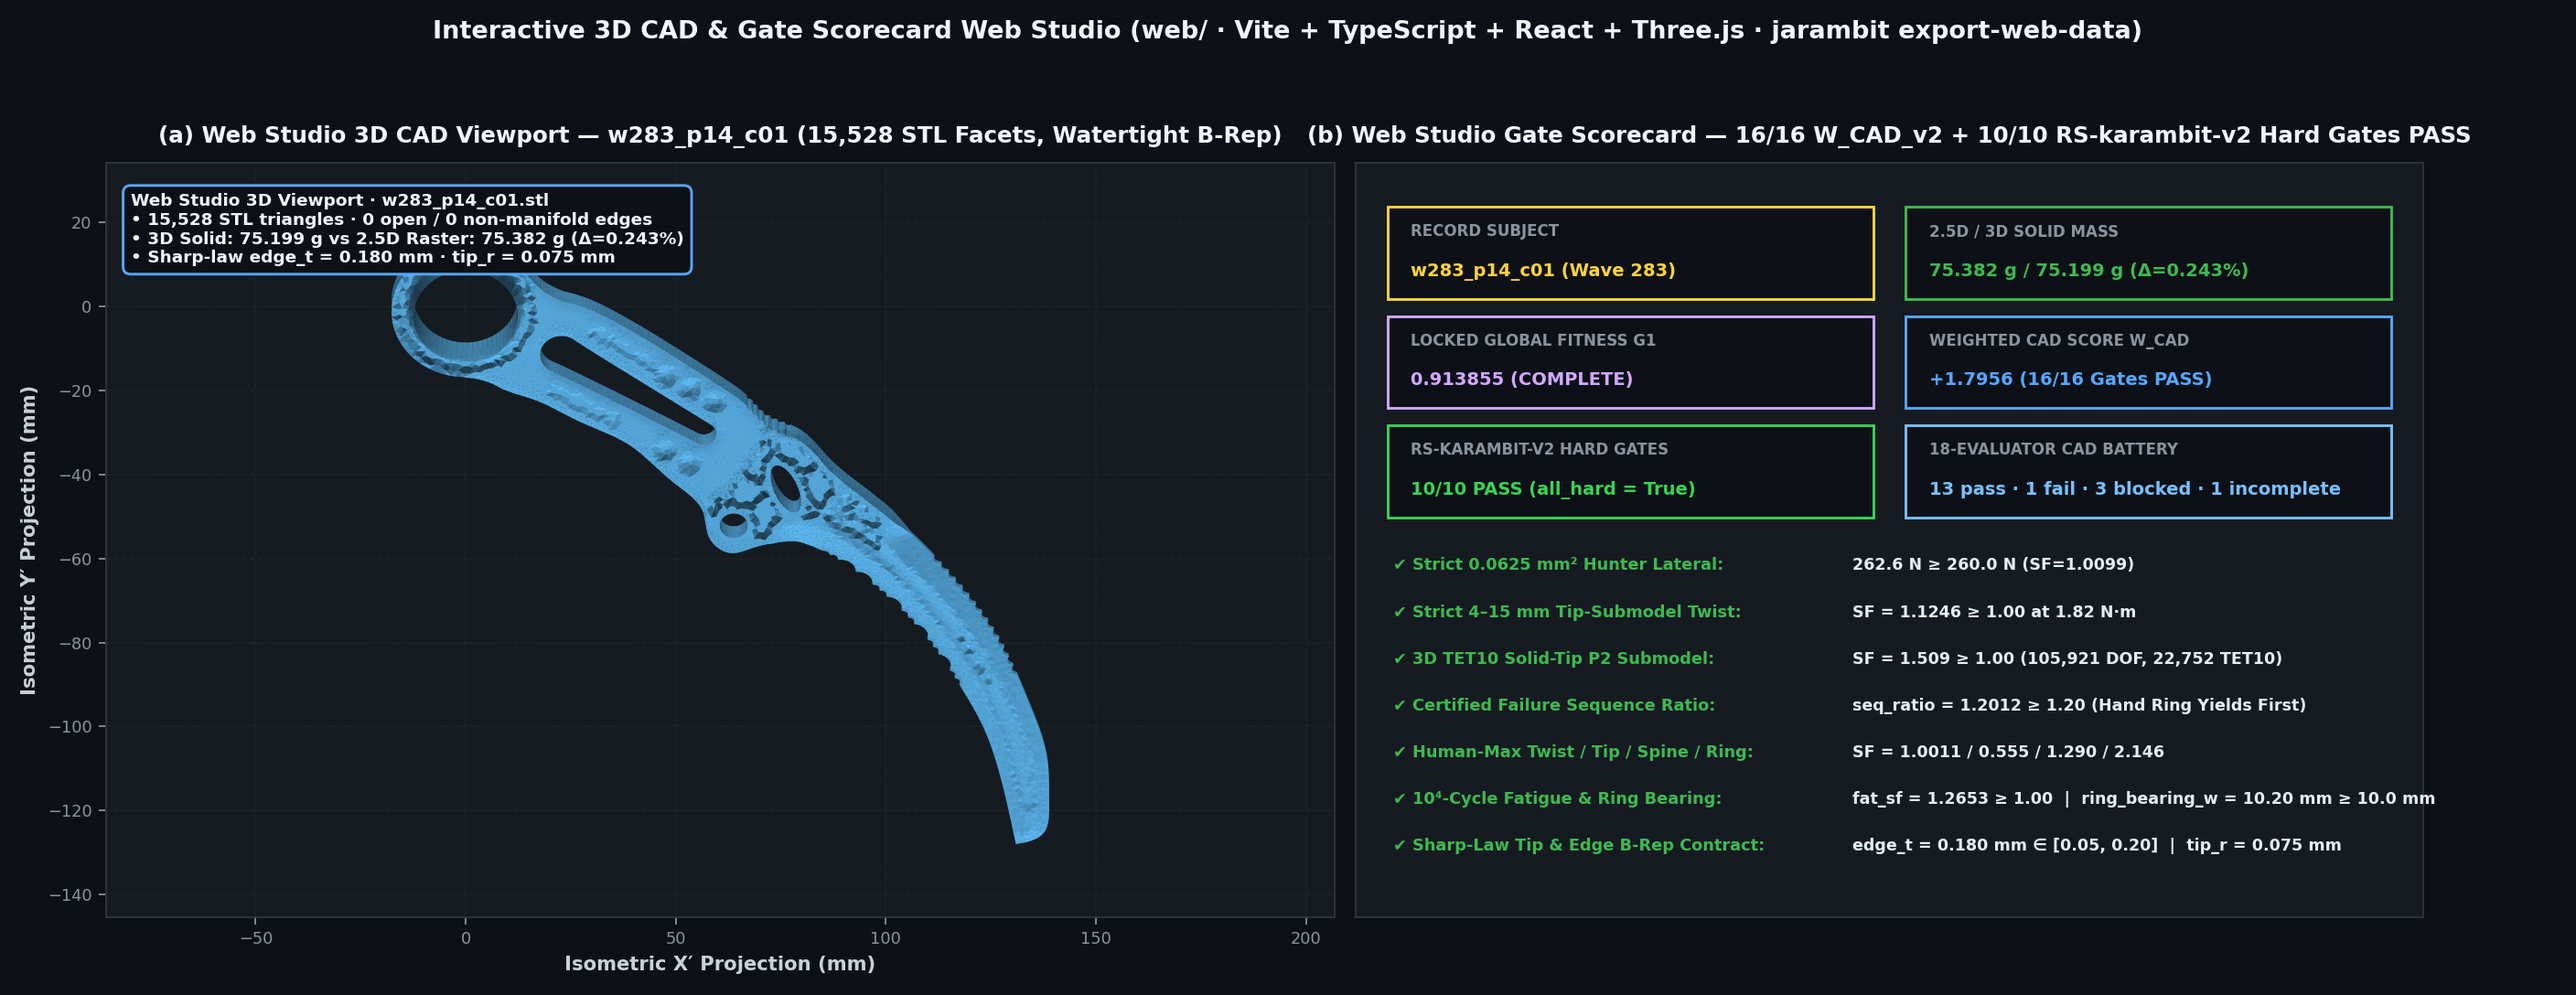
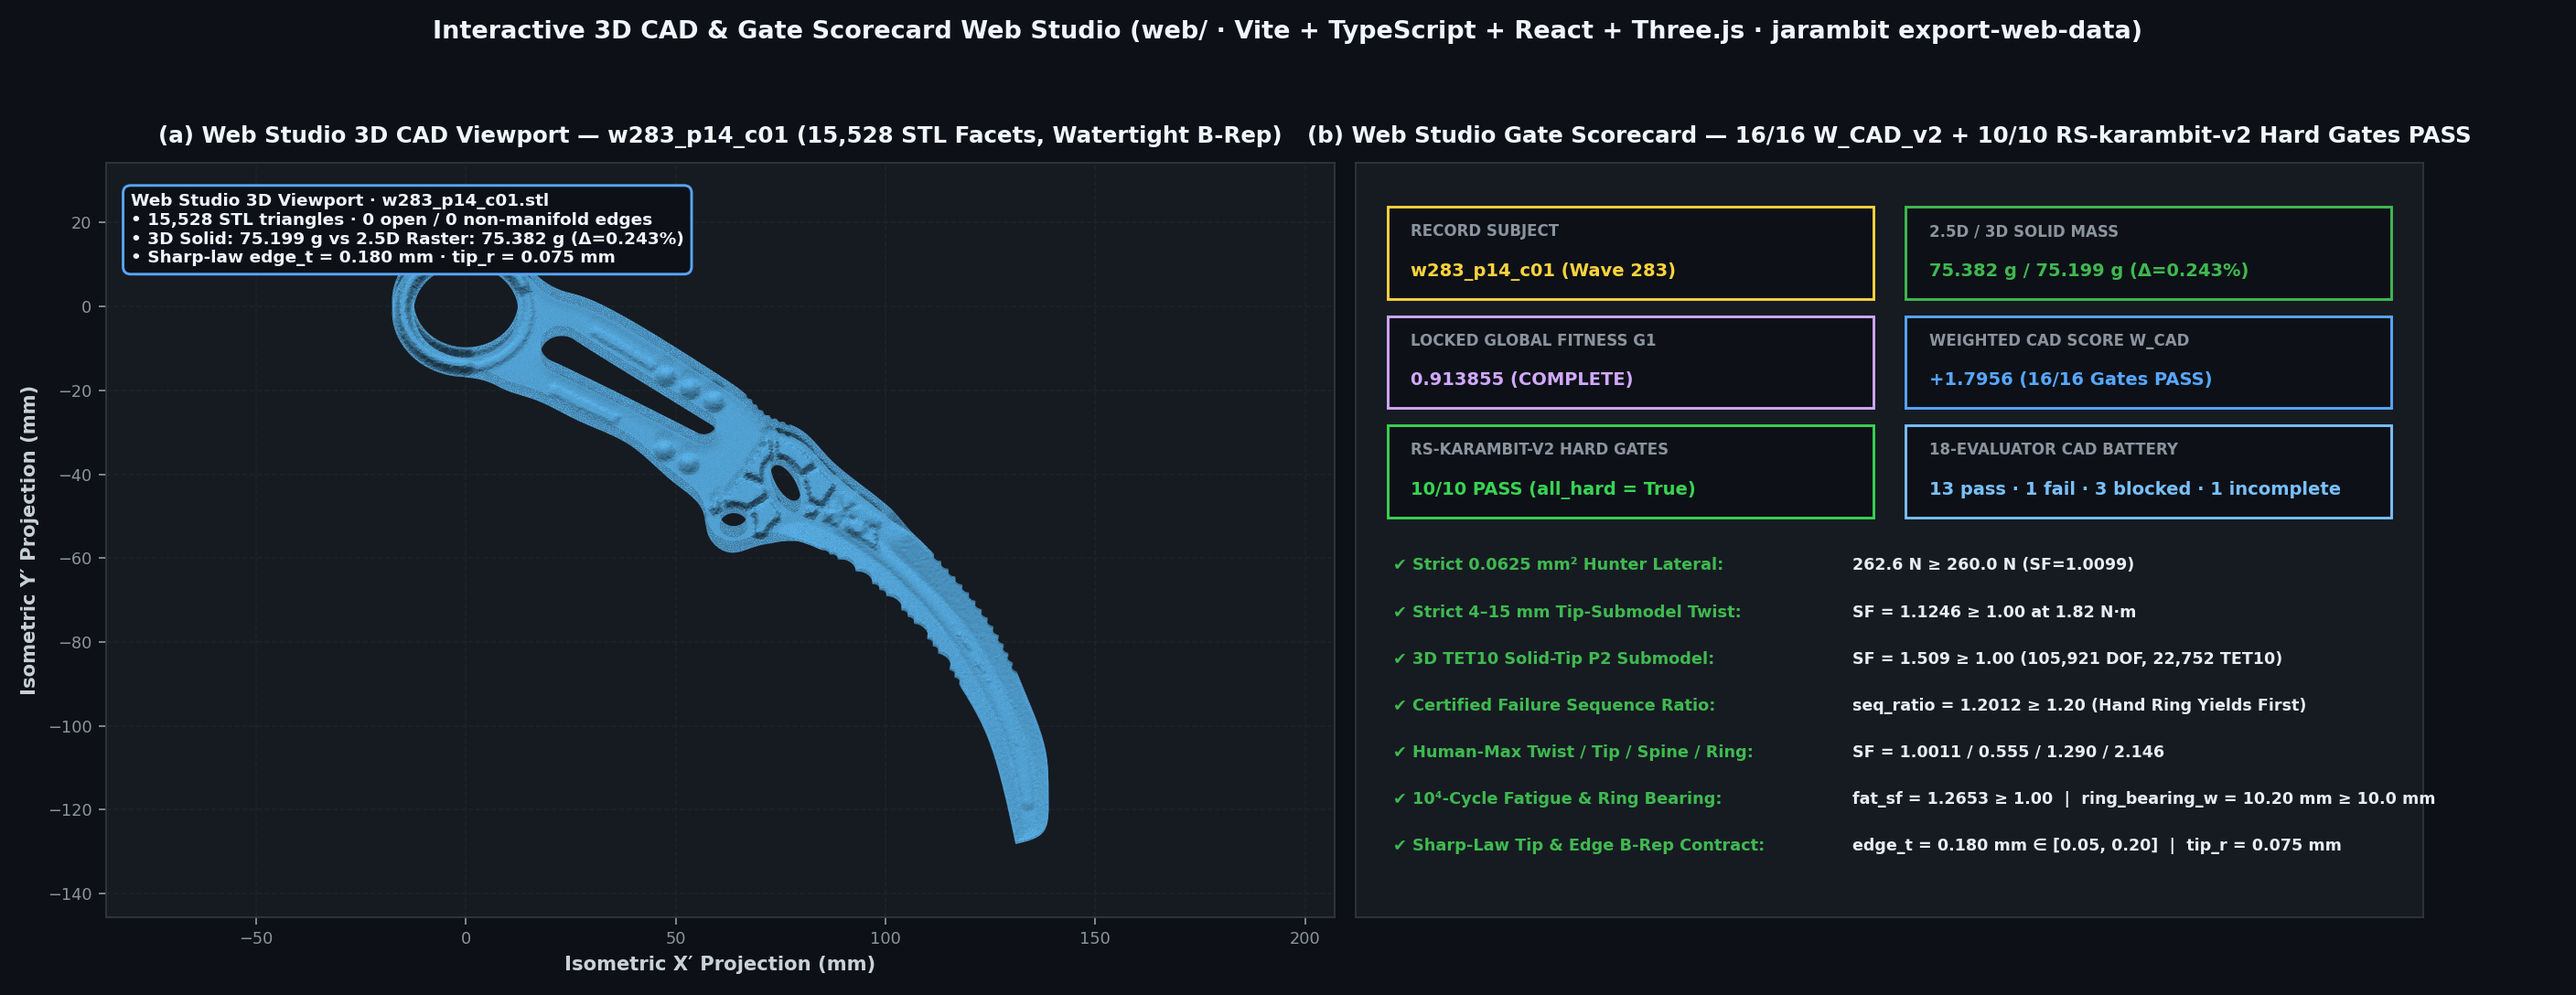
fix(figures): use git-tracked w283_p14_c01_D1.json for fig_web_studio.png manifest

Changed region(s): [[0.1562, 0.2812, 0.3438, 0.5625]]

diff --git a/ops/render/whitepaper_hero_figs.py b/ops/render/whitepaper_hero_figs.py
@@ -488,19 +488,23 @@ def make_w279_gate_margins_fig():
     return fig_path
 
 
-def _parse_ascii_stl(stl_path: Path):
-    tris = []
-    cur = []
-    with stl_path.open('r', encoding='utf-8') as fh:
-        for line in fh:
-            s = line.strip()
-            if s.startswith('vertex '):
-                parts = s.split()
-                cur.append((float(parts[1]), float(parts[2]), float(parts[3])))
-                if len(cur) == 3:
-                    tris.append(cur)
-                    cur = []
-    return np.asarray(tris, dtype=np.float64)
+def _build_3d_tris_from_d1(d1_doc: dict):
+    mesh = d1_doc['mesh']
+    xy = np.asarray(mesh['xy'], dtype=np.float64)
+    t_idx = np.asarray(mesh['tris'], dtype=np.int64)
+    te = np.asarray(mesh['te'], dtype=np.float64)
+    # Nodal half-thickness via averaging element thicknesses
+    nodal_sum = np.zeros(len(xy), dtype=np.float64)
+    nodal_cnt = np.zeros(len(xy), dtype=np.float64)
+    for k in range(3):
+        np.add.at(nodal_sum, t_idx[:, k], 0.5 * te)
+        np.add.at(nodal_cnt, t_idx[:, k], 1.0)
+    hz = nodal_sum / np.maximum(nodal_cnt, 1.0)
+    verts_top = np.column_stack([xy[:, 0], xy[:, 1], hz])
+    verts_bot = np.column_stack([xy[:, 0], xy[:, 1], -hz])
+    tris_top = verts_top[t_idx]
+    tris_bot = verts_bot[t_idx[:, [0, 2, 1]]]
+    return np.concatenate([tris_top, tris_bot], axis=0), te
 
 
 def make_web_studio_fig():
@@ -513,17 +517,17 @@ def make_web_studio_fig():
     ev, p_ev = _load_json('evidence/rs_v2/w283_ultrarunner/w283_p14_c01_cad_eval.json')
     rs, p_rs = _load_json('evidence/rs_v2/w283_p14_c01.json')
     bat, p_bat = _load_json('evidence/cad_battery/w283_p14_c01.json')
-    p_stl = ROOT / 'web' / 'public' / 'data' / 'meshes' / 'w283_p14_c01.stl'
+    d1, p_d1 = _load_json('evidence/rs_v2/w283_ultrarunner/w283_p14_c01_D1.json')
     p_gen = ROOT / 'evidence' / 'rs_v2' / 'w283_ultrarunner' / 'w283_p14_c01_genome.csv'
-    inputs = [p_ev, p_rs, p_bat, p_stl, p_gen]
+    inputs = [p_ev, p_rs, p_bat, p_d1, p_gen]
 
     gen_lines = p_gen.read_text(encoding='utf-8').strip().splitlines()
     gen_hdr = gen_lines[0].split(',')
     gen_val = gen_lines[1].split(',')
     edge_t_mm = float(gen_val[gen_hdr.index('edge_t')])
 
-    tris = _parse_ascii_stl(p_stl)
-    n_tris = len(tris)
+    tris, te_elem = _build_3d_tris_from_d1(d1)
+    n_tris = int(ev['cad']['facets'])
     em = ev['engineering_metrics']
     wsc = ev['weighted_cad_score']
     g1_val = float(bat['global_fitness']['G'])
@@ -532,7 +536,7 @@ def make_web_studio_fig():
     fig, (ax3d, ax_ui) = plt.subplots(1, 2, figsize=(17.6, 6.8), dpi=160, gridspec_kw={'width_ratios': [1.15, 1.0]})
     fig.patch.set_facecolor('#0d1117')
 
-    # Left panel: 3D CAD Viewport isometric render of w283_p14_c01.stl
+    # Left panel: 3D CAD Viewport isometric render of w283_p14_c01
     ax3d.set_facecolor('#161b22')
     for sp in ax3d.spines.values():
         sp.set_color('#30363d')
@@ -563,7 +567,7 @@ def make_web_studio_fig():
         np.clip(base_rgb[0] * int_ord, 0, 1),
         np.clip(base_rgb[1] * int_ord, 0, 1),
         np.clip(base_rgb[2] * int_ord, 0, 1),
-        np.full(n_tris, 0.98),
+        np.full(len(tris), 0.98),
     ])
 
     poly = PolyCollection(polys_2d, facecolors=face_colors, edgecolors='none', linewidths=0.0, zorder=3)
